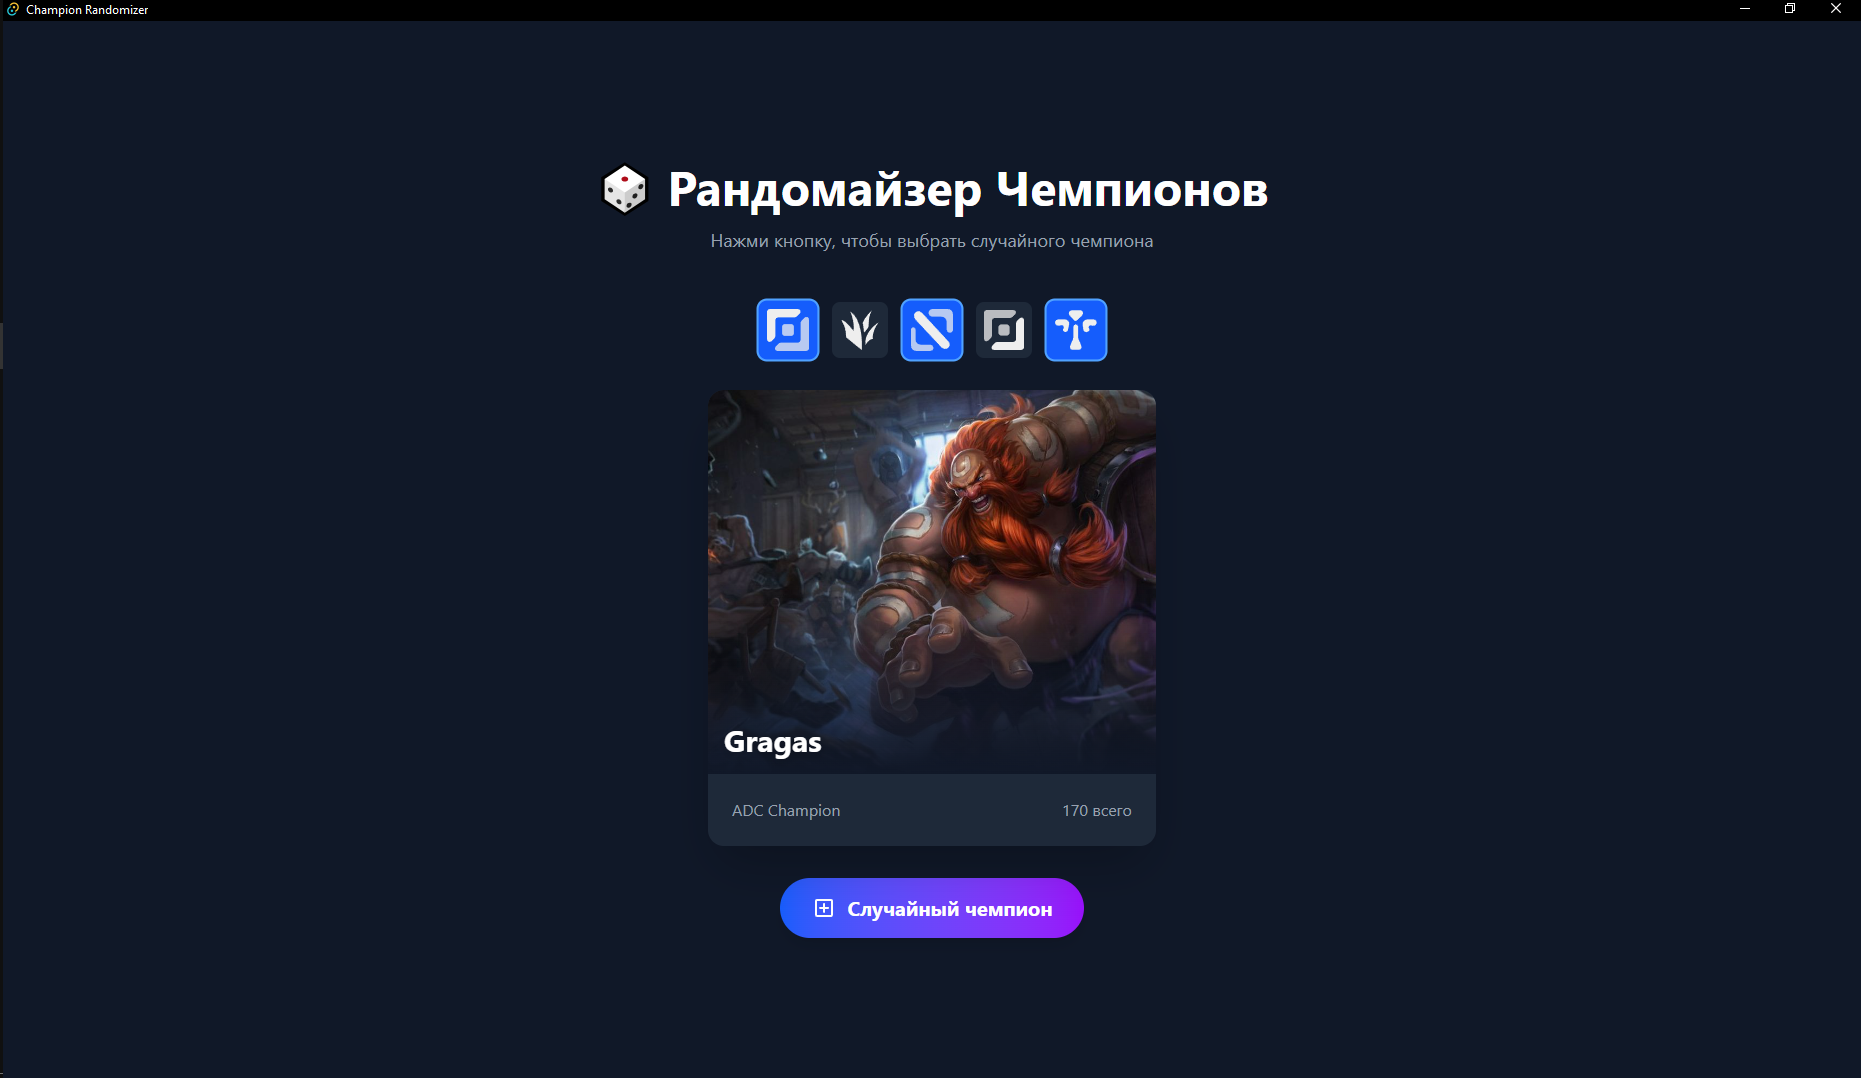
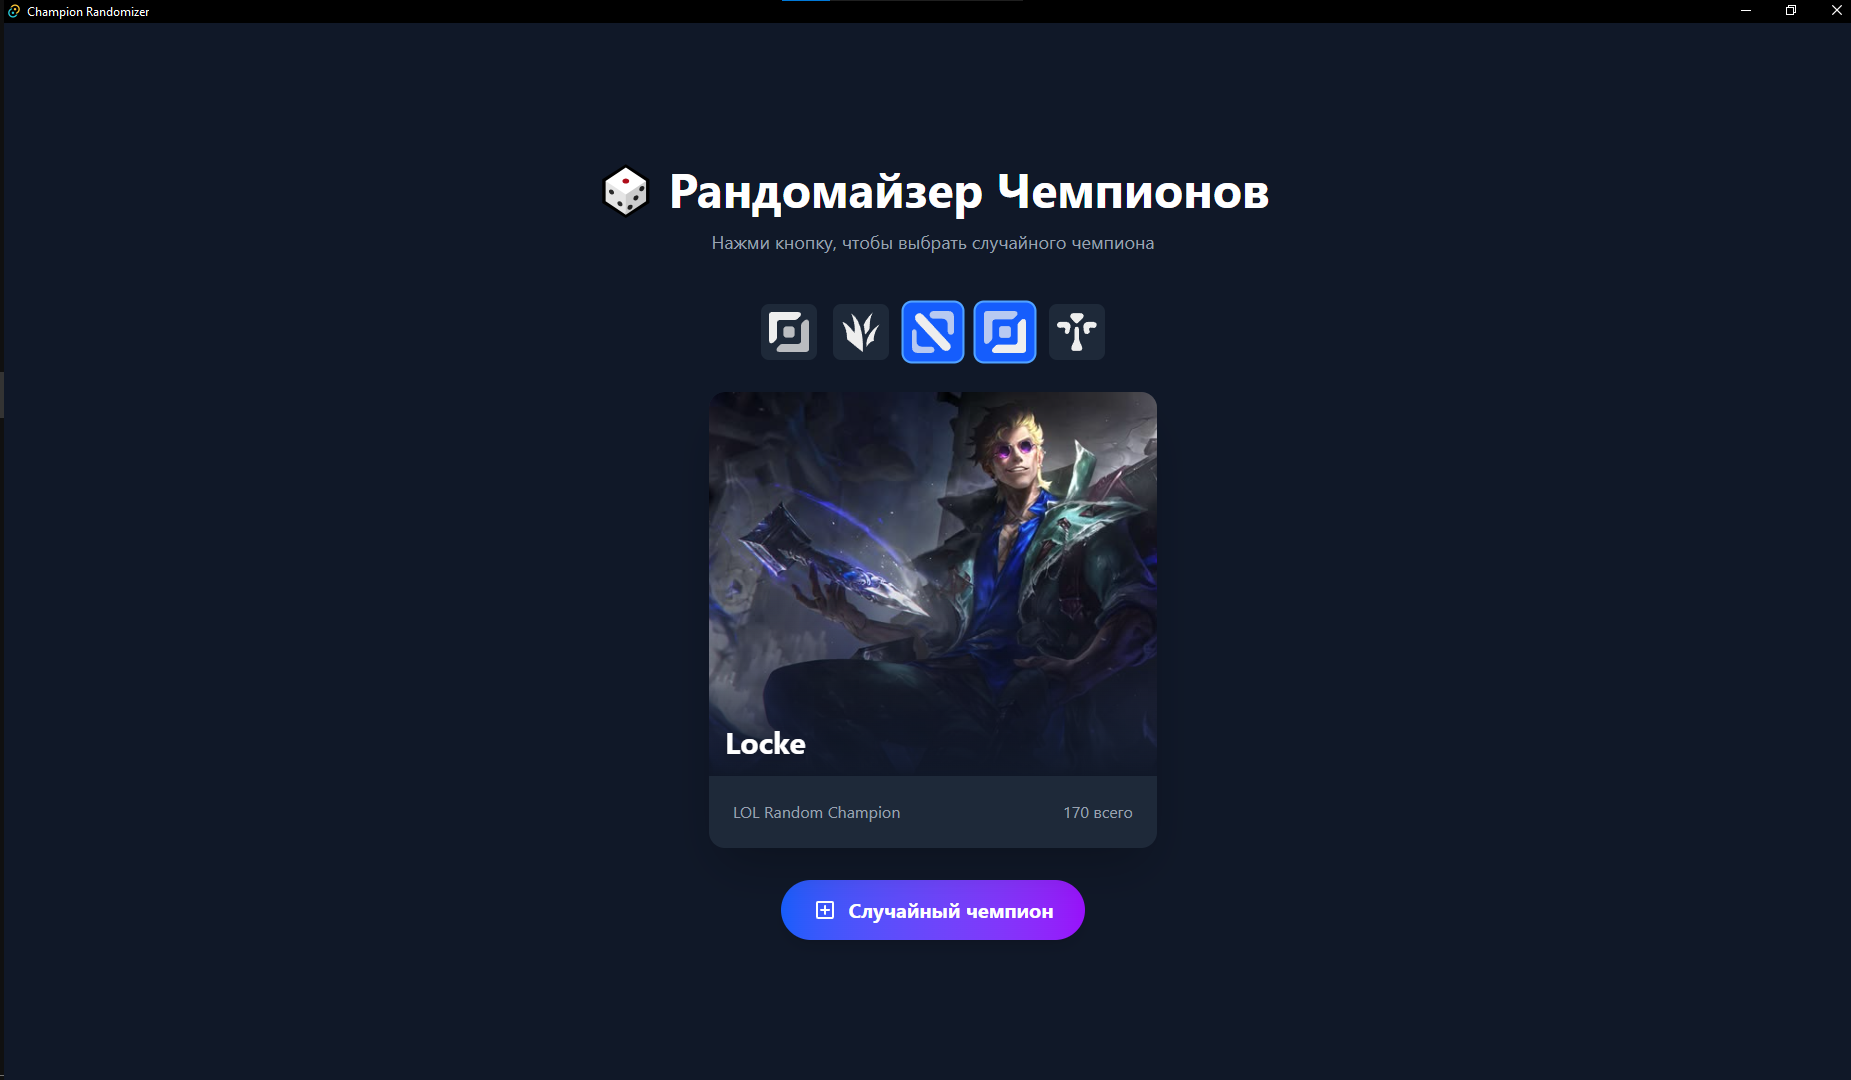
chore: prepare v1.1.0 release with role filtering

diff --git a/src/App.tsx b/src/App.tsx
@@ -7,8 +7,6 @@ import championFlexRoles  from "./ChampionsFlexRoles";
 // interface ChampionImages {
 //   [key: string]: string;
 // }
-type ChampionsRoles = Record<string, string[]>
-
 function App() {
   const [selectedRoles, setSelectedRoles] = useState<string[]>([]);
   const [champions, setChampions] = useState<Record<string, string>>({});
@@ -179,7 +177,7 @@ function App() {
                 
                 <div className="p-6">
                   <div className="flex items-center justify-between text-gray-400">
-                    <span>ADC Champion</span>
+                    <span>LOL Random Champion</span>
                     <span>{Object.keys(champions).length} всего</span>
                   </div>
                 </div>

diff --git a/CHANGELOG.md b/CHANGELOG.md
@@ -1,0 +1,30 @@
+# Changelog
+
+## [1.1.1] - 2026-09-23
+
+### Changed
+- Remove "ADC" from naming
+
+## [1.1.0] - 2026-09-23
+
+### Added
+- Role-based champion filtering (top, jungle, mid, bottom, support)
+- Multi-select role buttons with visual feedback
+- Dynamic champion pool based on selected roles
+- 100+ new champions
+
+### Fixed
+- TypeScript errors in ChampionRoleBtn component
+- Image aspect ratio issues
+
+### Changed
+- Improved README with English documentation
+- Updated project structure
+
+## [1.0.0] - 2026-09-20
+
+### Added
+- Initial release
+- Champion randomizer with animation
+- OPGG links for each champion
+- 22 ADC champions

diff --git a/README.md b/README.md
@@ -22,9 +22,9 @@
 ### ✨ Возможности
 
 - 🎲 Случайный выбор чемпиона с анимацией
--  Красивые арты чемпионов
 - Возможность открыть гайд и билды на чемпиона (opgg)
--  Кроссплатформенность (Windows, macOS, Linux)
+- Кроссплатформенность (Windows, macOS, Linux)
+- Фильтрация выбора чемпионов по ролям
 - ⚡ Быстрая работа благодаря Tauri
 
 ## 📸 Скриншоты
